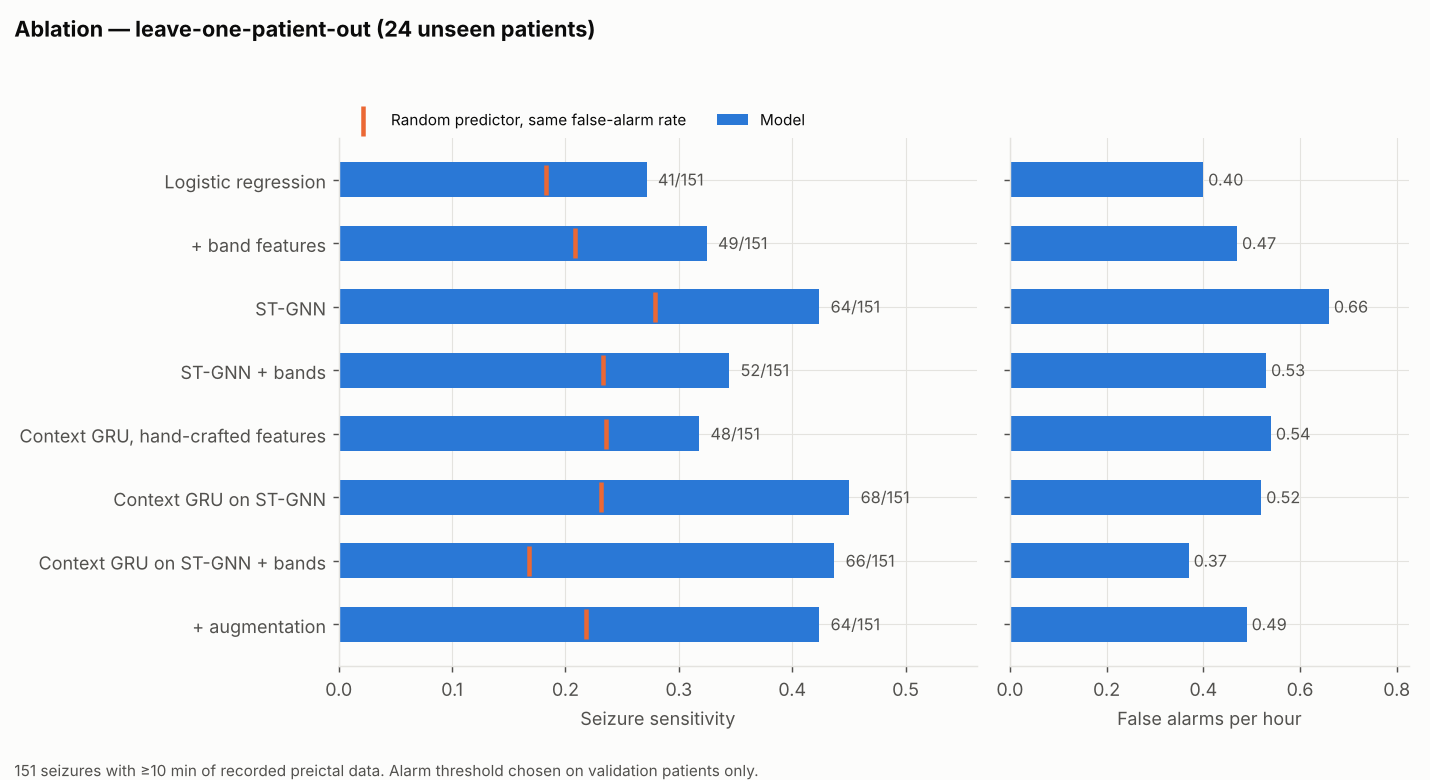
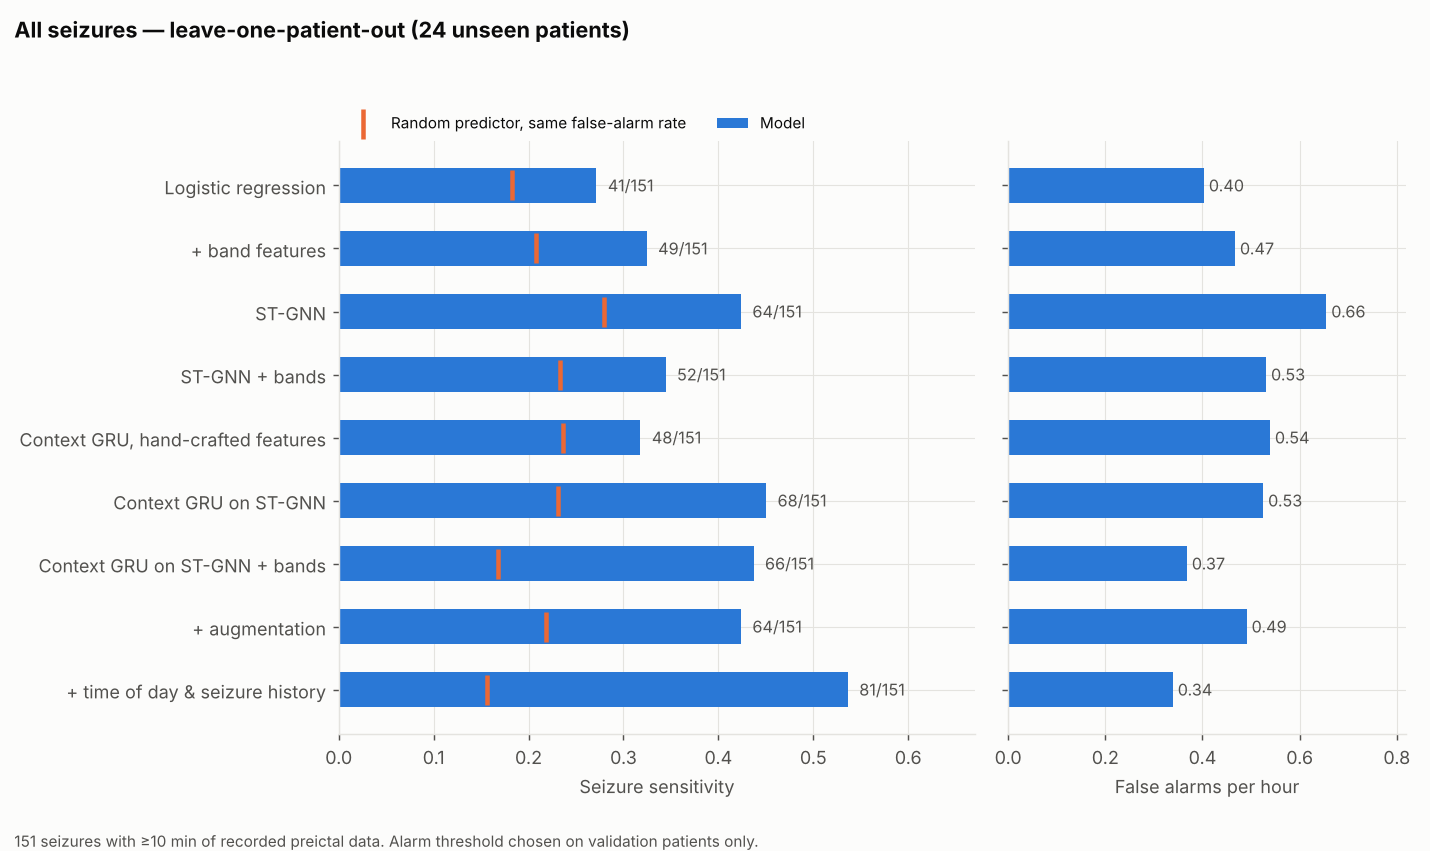
README: lead-seizure results and seizure-clustering findings
- Summary and ablation tables now report all seizures and lead seizures
  (onset >= 4 h after the previous seizure) side by side
- New ablation_lead.png figure; personalization and chronological tables
  gain lead-seizure columns
- Document time-of-day / seizure-history context features and the
  --lead_gap_h evaluation option

Claude-Session: https://claude.ai/code/session_01R4Q7ReF1wFLYanRSxHYykG

diff --git a/tools/readme_figures.py b/tools/readme_figures.py
@@ -37,7 +37,9 @@ ABLATION = [  # (label, run)
     ("Context GRU on ST-GNN", "context_stgnn_lopo"),
     ("Context GRU on ST-GNN + bands", BEST),
     ("  + augmentation", "context_stgnn_bands_aug_lopo"),
+    ("  + time of day & seizure history", "context_stgnn_bands_timehist_lopo"),
 ]
+ABLATION_LEAD = [(lab, f"{run}/lead4h") for lab, run in ABLATION]
 PERSONALIZATION = [
     ("Patient-specific, from scratch", "context_stgnn_bands_chrono"),
     ("General model, threshold calibrated", "personalized/general"),
@@ -53,7 +55,7 @@ def export(results_dir, out):
     from src.metrics import THRESHOLD_GRID, event_metrics, raise_alarms, summarize_events
 
     runs = {}
-    for _, run in ABLATION + PERSONALIZATION:
+    for _, run in ABLATION + ABLATION_LEAD + PERSONALIZATION:
         p = os.path.join(results_dir, run, "results.json")
         if os.path.exists(p):
             runs[run] = json.load(open(p))["summary"]
@@ -142,7 +144,8 @@ def render(data_path, out_dir):
         a1.scatter(rnd, y, marker="|", s=260, linewidths=2.5, color=ORANGE, zorder=3,
                    label="Random predictor, same false-alarm rate")
         for yi, (_, s) in zip(y, rows):
-            a1.text(s["sensitivity"] + 0.01, yi, f"{s['predicted']}/{s['seizures']}", va="center",
+            a1.text(max(s["sensitivity"], s["random_predictor_sensitivity"]) + 0.012, yi,
+                    f"{s['predicted']}/{s['seizures']}", va="center",
                     fontsize=9, color=TEXT_2)
         a1.set_xlim(0, max(sens) * 1.25)
         a1.set_xlabel("Seizure sensitivity")
@@ -161,8 +164,12 @@ def render(data_path, out_dir):
         fig.savefig(os.path.join(out_dir, fname), dpi=130)
         plt.close(fig)
 
-    two_panel(ABLATION, "Ablation — leave-one-patient-out (24 unseen patients)", "ablation_lopo.png",
+    two_panel(ABLATION, "All seizures — leave-one-patient-out (24 unseen patients)", "ablation_lopo.png",
               "151 seizures with ≥10 min of recorded preictal data. Alarm threshold chosen on validation patients only.")
+    two_panel(ABLATION_LEAD, "Lead seizures only — leave-one-patient-out (24 unseen patients)",
+              "ablation_lead.png",
+              "65 seizures starting ≥4 h after the previous one; clustered seizures not scored. "
+              "Threshold chosen on validation patients' lead seizures.")
     two_panel(PERSONALIZATION, "Personalization — last 30% of each patient's recording (13 patients)",
               "personalization.png",
               "31 test seizures; all variants use the same test data and choose the threshold on the patient's validation part.")

diff --git a/README.md b/README.md
@@ -21,18 +21,24 @@ channels and whose edges are Phase Locking Values (PLV) in several frequency ban
 attention network embeds each window; a recurrent model reads the last 5 minutes of
 embeddings and outputs a **continuous risk score** that rises toward onset.
 
-**Result (24 patients, each tested without ever being seen in training, 151 seizures):**
+**Result (24 patients, each tested by a model that never saw them):**
 
-| | Best model |
-|---|---|
-| Seizures predicted | **66 / 151 (44%)** |
-| False alarms | **0.37 per hour** (about one every 2.7 hours) |
-| Mean warning time | **19.4 minutes** before onset |
-| Random predictor at the same false-alarm rate | 17% of seizures |
-| Significance vs. chance | p = 9 × 10⁻¹⁵ |
+| Best model | All seizures | Lead seizures only |
+|---|---|---|
+| Seizures predicted | **66 / 151 (44%)** | **21 / 65 (32%)** |
+| False alarms per hour | 0.37 | 0.33 (about one every 3 hours) |
+| Mean warning time | 19.4 min | 20.7 min |
+| Random predictor at the same false-alarm rate | 17% | 15% |
+| p vs. chance | 9 × 10⁻¹⁵ | 4 × 10⁻⁴ |
 
-Fine-tuning that general model on a patient's own early recordings improves it further
-for that patient (Section 7.3).
+**Lead seizures** (starting ≥ 4 h after the previous one) are the stricter test. Many
+CHB-MIT seizures come in clusters, and a model can catch those by learning "another
+seizure is likely soon" rather than by recognising pre-seizure EEG. On lead seizures,
+only the models that combine ST-GNN embeddings with minutes of context stay clearly
+better than chance. Adding the time since the last seizure raises all-seizure
+sensitivity to 54% (a useful seizure-cluster warning) but does not help on lead
+seizures (Section 7.1). Personalization results are promising but too small to be
+conclusive (Section 7.3).
 
 **How this version came about.** v2 reported a window-level AUC of 0.883 using a random
 split that leaked information between training and test data. v3 rebuilds everything, from
@@ -139,6 +145,10 @@ on validation data only, maximising seizure sensitivity subject to ≤ 0.5 false
   with probability p = 1 − exp(−FPR × SOP) (Schelter et al., 2006); a binomial test gives
   the p-value of the model's sensitivity against it.
 - Seizures with < 10 min of recorded preictal data are not scored (26 in leave-one-patient-out).
+- **Lead seizures:** every result is also reported for lead seizures only, those starting
+  ≥ 4 h after the end of the previous seizure (65 of the 177 test seizures with enough
+  preictal data in leave-one-patient-out). Clustered seizures then count neither as hits nor
+  misses, also when the threshold is chosen on validation data.
 - Window-level ROC-AUC per subject is reported for comparison with other work.
 
 ---
@@ -150,7 +160,7 @@ on validation data only, maximising seizure sensitivity subject to ≤ 0.5 false
 pip install torch --index-url https://download.pytorch.org/whl/cu128
 pip install -r requirements.txt
 
-python -m pytest tests                    # 36 tests, CPU, < 1 min, no dataset needed
+python -m pytest tests                    # 42 tests, CPU, < 1 min, no dataset needed
 bash run_all.sh /path/to/chb-mit          # every result in this README, end to end
 jupyter notebook notebooks/stgnn_v3_walkthrough.ipynb   # or step through it cell by cell
 ```
@@ -163,7 +173,13 @@ python -m src.preprocess --raw_dir /path/to/chb-mit --out_dir $P --workers 4
 python -m src.train   --processed_dir $P --protocol lopo --features bands --out_dir results/stgnn_bands_lopo
 python -m src.context --processed_dir $P --source results/stgnn_bands_lopo --out_dir results/context_stgnn_bands_lopo
 python -m src.evaluate --results_dir results/context_stgnn_bands_lopo
+python -m src.evaluate --results_dir results/context_stgnn_bands_lopo \
+    --lead_gap_h 4 --processed_dir $P --out_dir results/context_stgnn_bands_lopo/lead4h
 python -m src.figures  --results_dir results/context_stgnn_bands_lopo
+
+# context model with hour of day and time since the last seizure
+python -m src.context --processed_dir $P --source results/stgnn_bands_lopo --extra time,history \
+    --out_dir results/context_stgnn_bands_timehist_lopo
 
 # personalization (uses the leave-one-patient-out models above)
 python -m src.personalize --processed_dir $P --general_encoder results/stgnn_bands_lopo \
@@ -181,6 +197,7 @@ data/synthetic` builds small synthetic EDF files with CHB-MIT's quirks.
 |---|---|
 | Window encoder | Adam, lr 3e-4, weight decay 1e-4, cosine schedule; 30 epochs × 40,000 class-balanced windows; early stopping (patience 8) on validation AUC; batch 128; dropout 0.4; BF16 on CUDA |
 | Context model | GRU, hidden 64, 60-window (5-min) history; Adam, lr 1e-3; early stopping (patience 6) |
+| Context extras (optional) | hour of day (sin, cos); log time since the last seizure ended, clipped to [1 h, 72 h]; has-previous-seizure flag |
 | Personalization | encoder lr 1e-4 (≤ 10 epochs), context lr 3e-4 (≤ 15 epochs), early stopping on the patient's validation part |
 | Loss | α = 0.5 MSE / BCE |
 
@@ -189,57 +206,79 @@ data/synthetic` builds small synthetic EDF files with CHB-MIT's quirks.
 ## 7. Results
 
 All numbers are on held-out data, produced by `src.evaluate`. Every run uses the same alarm
-rule and chooses its threshold on validation data only.
+rule and chooses its threshold on validation data only. Each model is scored on **all
+seizures** and on **lead seizures only** (Section 4).
 
 ### 7.1 Ablation: what each component contributes (leave-one-patient-out)
 
-24 patients, each tested by a model that never saw them; 151 scored seizures, 766 interictal hours.
+24 patients, each tested by a model that never saw them; 766 interictal hours.
 
-| Model | Seizures predicted | False alarms / h | Random predictor | p vs. chance | Mean lead time | Window AUC |
-|---|---|---|---|---|---|---|
-| Logistic regression (PLV + power) | 41 (27%) | 0.40 | 18% | 0.005 | 17.9 min | 0.53 ± 0.09 |
-| Logistic regression + band features | 49 (32%) | 0.47 | 21% | 6 × 10⁻⁴ | 16.7 min | 0.53 ± 0.10 |
-| ST-GNN (5-s windows) | 64 (42%) | 0.66 | 28% | 1 × 10⁻⁴ | 14.6 min | 0.52 ± 0.13 |
-| ST-GNN + band features | 52 (34%) | 0.53 | 23% | 0.001 | 16.9 min | 0.52 ± 0.13 |
-| Context GRU on hand-crafted features | 48 (32%) | 0.54 | 24% | 0.014 | 18.7 min | 0.57 ± 0.15 |
-| Context GRU on ST-GNN | 68 (45%) | 0.52 | 23% | 2 × 10⁻⁹ | 18.3 min | 0.56 ± 0.16 |
-| **Context GRU on ST-GNN + bands** | **66 (44%)** | **0.37** | **17%** | **9 × 10⁻¹⁵** | **19.4 min** | 0.56 ± 0.15 |
-| … + training-time augmentation | 64 (42%) | 0.49 | 22% | 1 × 10⁻⁸ | 17.7 min | 0.54 ± 0.15 |
+| Model | All seizures (151): predicted | FA/h | p | Lead seizures (65): predicted | FA/h | chance | p |
+|---|---|---|---|---|---|---|---|
+| Logistic regression (PLV + power) | 41 (27%) | 0.40 | 0.005 | 7 (11%) | 0.25 | 12% | 0.64 |
+| Logistic regression + band features | 49 (32%) | 0.47 | 6 × 10⁻⁴ | 16 (25%) | 0.40 | 18% | 0.12 |
+| ST-GNN (5-s windows) | 64 (42%) | 0.66 | 1 × 10⁻⁴ | 17 (26%) | 0.56 | 24% | 0.41 |
+| ST-GNN + band features | 52 (34%) | 0.53 | 0.001 | 16 (25%) | 0.40 | 18% | 0.12 |
+| ST-GNN + bands + augmentation | 49 (32%) | 0.62 | 0.06 | 22 (34%) | 0.46 | 21% | 0.008 |
+| Context GRU on hand-crafted features | 48 (32%) | 0.54 | 0.014 | 18 (28%) | 0.41 | 19% | 0.046 |
+| Context GRU on ST-GNN | 68 (45%) | 0.52 | 2 × 10⁻⁹ | **26 (40%)** | 0.48 | 21% | 4 × 10⁻⁴ |
+| **Context GRU on ST-GNN + bands** | **66 (44%)** | **0.37** | **9 × 10⁻¹⁵** | **21 (32%)** | **0.33** | **15%** | **4 × 10⁻⁴** |
+| … + augmentation | 64 (42%) | 0.49 | 1 × 10⁻⁸ | 16 (25%) | 0.40 | 18% | 0.13 |
+| … + time of day | 49 (32%) | 0.40 | 2 × 10⁻⁵ | 14 (22%) | 0.36 | 17% | 0.18 |
+| … + seizure history | **88 (58%)** | 0.44 | 5 × 10⁻²⁵ | 16 (25%) | 0.37 | 17% | 0.07 |
+| … + time of day & seizure history | 81 (54%) | **0.34** | 5 × 10⁻²⁷ | 21 (32%) | 0.32 | 15% | 2 × 10⁻⁴ |
 
-![Ablation](docs/figures/ablation_lopo.png)
+![Ablation, all seizures](docs/figures/ablation_lopo.png)
+
+![Ablation, lead seizures](docs/figures/ablation_lead.png)
 
 **What this shows**
 
-- **Minutes of context is the most valuable component for the graph network.** Adding the
-  5-minute GRU improved both ST-GNN variants on both axes at once (more seizures, fewer
-  false alarms), mainly by suppressing isolated false alarms. On hand-crafted features it
-  did not beat plain logistic regression (48 vs 49 seizures, 0.54 vs 0.47 false alarms/h).
-- **Band features help only with context.** Alone they made the ST-GNN worse (64 → 52
-  seizures): a single 5-s window with 306 six-feature edges is noisy. Over 5 minutes, the
-  richer features pay off: the best model has the lowest false-alarm rate of all.
-- **The graph network adds something hand-crafted features don't.** With the same context
-  model, ST-GNN embeddings predict 66–68 seizures; hand-crafted band features predict 48.
-- **Augmentation hurt** (time shift, noise, masking, channel gain, channel dropout, PLV
-  jitter): fewer seizures, more false alarms. The main difficulty is variability *between*
-  patients, which within-patient perturbations don't simulate, and noise blurs an already
-  subtle signal.
-- **Window AUC stays near 0.55** although alarms are far better than chance: most windows
-  are hard to tell apart, but the model's high-confidence episodes cluster before seizures.
-  Event-level metrics are what matter for a warning system.
+- **Lead seizures are much harder.** Only 65 of 177 test seizures are lead seizures; the
+  rest follow another seizure within 4 hours, mostly in a few patients (chb12, chb24).
+  On lead seizures, logistic regression and the window-level ST-GNN no longer beat chance.
+- **ST-GNN embeddings plus minutes of context is the result that survives.** Both context
+  models on ST-GNN embeddings stay clearly better than chance on lead seizures
+  (p < 0.001); the same context model on hand-crafted features is borderline (p = 0.046).
+  The 5-minute context also improved both ST-GNN variants on all seizures, mainly by
+  suppressing isolated false alarms.
+- **Band features shift the operating point rather than adding signal.** With context they
+  give the lowest false-alarm rates (0.33–0.37/h) but catch fewer lead seizures (21 vs 26);
+  the margin over chance is similar.
+- **Seizure history predicts clusters, not seizures.** Adding the time since the last
+  seizure lifts all-seizure sensitivity from 44% to 58%, yet gives nothing on lead seizures.
+  The model learns that seizures come in clusters. That is clinically useful as a cluster
+  warning, but it is not pre-seizure EEG prediction. (The feature is floored at the 60-min
+  labelling buffer so it cannot exploit the labelling rule itself; see `src/context_features.py`.)
+- **Time of day does not transfer between patients.** Each patient's daily seizure pattern
+  differs, so one learned from others adds noise. Combined with seizure history it gives the
+  best all-seizure model (54% at 0.34 false alarms/h), equal to the best on lead seizures.
+- **Augmentation did not help** (time shift, noise, masking, channel gain, channel dropout,
+  PLV jitter). The window-level model with augmentation does reach p = 0.008 on lead
+  seizures, but its context version drops to chance; with 65 seizures, differences of a few
+  seizures are within noise. The main difficulty is variability *between* patients, which
+  within-patient perturbations do not simulate.
+- **Window AUC stays near 0.55** although alarms beat chance: most windows are hard to tell
+  apart, but high-confidence episodes cluster before seizures. Event-level metrics are what
+  matter for a warning system.
 
-![Sensitivity vs false alarms](docs/figures/operating_curve.png)
+![Sensitivity vs false alarms, all seizures](docs/figures/operating_curve.png)
 
 ### 7.2 Per patient: large differences
 
+Counted over all seizures. The best model works well for some patients and not at all for
+others.
+
 ![Per patient](docs/figures/per_subject.png)
 
-The best model works well for some patients and not at all for others. chb20 below: 6 of 8
-seizures predicted with 0.44 false alarms/h, by a model that never saw this patient.
+chb20, never seen in training: 6 of 8 seizures predicted (both lead seizures among them)
+with 0.44 false alarms/h.
 
 ![Risk timeline, chb20](docs/figures/risk_timeline_chb20.png)
 
-chb15: none of 15 seizures predicted. Its risk stays low before every seizure; whatever
-precedes this patient's seizures is not the pattern the other patients taught the model.
+chb15: none of 15 seizures predicted (7 of them lead seizures). Its risk stays low before
+every seizure; whatever precedes this patient's seizures is not the pattern the other
+patients taught the model.
 
 ![Risk timeline, chb15](docs/figures/risk_timeline_chb15.png)
 
@@ -247,42 +286,48 @@ precedes this patient's seizures is not the pattern the other patients taught th
 
 The 13 patients with ≥ 3 seizures. Each starts from the leave-one-patient-out model that
 never saw them, adapts on the first ~50% of their recording, and is tested on the last ~30%
-(31 seizures, 115 interictal hours).
+(115 interictal hours).
 
-| Variant | Seizures predicted | False alarms / h | Random predictor | p vs. chance | Window AUC |
-|---|---|---|---|---|---|
-| Patient-specific model trained from scratch | 7 | 0.14 | 7% | 0.004 | 0.60 |
-| General model, only the threshold calibrated | 6 | 0.15 | 7% | 0.02 | 0.59 |
-| General model + fine-tuned context GRU | 11 | 0.42 | 19% | 0.02 | 0.65 |
-| **General model + fine-tuned encoder and context** | **9** | **0.24** | **11%** | **0.005** | **0.62** |
+| Variant | All (31): predicted | FA/h | p | Lead (16): predicted | FA/h | p |
+|---|---|---|---|---|---|---|
+| Patient-specific model trained from scratch | 7 | 0.14 | 0.004 | 1 | 0.09 | 0.50 |
+| General model, only the threshold calibrated | 6 | 0.15 | 0.02 | 3 | 0.12 | 0.07 |
+| General model + fine-tuned context GRU | 11 | 0.42 | 0.02 | 5 | 0.31 | 0.06 |
+| General model + fine-tuned encoder and context | 9 | 0.24 | 0.005 | 2 | 0.17 | 0.39 |
 
 ![Personalization](docs/figures/personalization.png)
 
-- **Starting from the general model beats starting from nothing:** both fine-tuned variants
-  predict more seizures and separate preictal from normal EEG better than a patient-specific
-  model trained only on that patient's data.
-- **Fine-tuning everything is the most balanced option.** Fine-tuning only the context model
-  catches the most seizures, but with about three times the false-alarm rate of the
-  calibrated general model (0.42 vs 0.15 per hour).
-- It fixes patients the general model fails on: chb01 goes from 0/1 (window AUC 0.53) to 1/1 (0.74).
-- With 31 test seizures, differences of 2–4 seizures are suggestive rather than conclusive.
+- **On all seizures, starting from the general model beats starting from nothing:** both
+  fine-tuned variants predict more seizures and separate preictal from normal EEG better
+  (window AUC 0.62–0.65 vs 0.60) than a model trained only on the patient's own data.
+- It fixes some patients the general model fails on: chb01 goes from 0/1 (window AUC 0.53)
+  to 1/1 (0.74) after full fine-tuning.
+- **On lead seizures the comparison is inconclusive:** only 16 lead seizures fall in the
+  patient-specific test periods, and no variant is significantly better than chance. Part
+  of the all-seizure gain may come from clustered seizures. A larger patient-specific test
+  set (more patients or longer recordings) is needed to settle it.
 
 ### 7.4 Patient-specific models (chronological protocol)
 
 Same 13 patients and test data as 7.3, models trained only on each patient's own data.
 
-| Model | Seizures predicted | False alarms / h | p vs. chance |
-|---|---|---|---|
-| Logistic regression | 7 | 0.31 | 0.15 |
-| Logistic regression + bands | 8 | 0.17 | 0.003 |
-| ST-GNN | 6 | 0.16 | 0.03 |
-| ST-GNN + bands | 6 | 0.27 | 0.19 |
-| Context GRU, hand-crafted features | 9 | 0.21 | 0.002 |
-| Context GRU on ST-GNN | 7 | 0.17 | 0.01 |
-| Context GRU on ST-GNN + bands | 7 | 0.14 | 0.004 |
+| Model | All (31): predicted | FA/h | p | Lead (16): predicted | p |
+|---|---|---|---|---|---|
+| Logistic regression | 7 | 0.31 | 0.15 | 2 | 0.46 |
+| Logistic regression + bands | 8 | 0.17 | 0.003 | 2 | 0.34 |
+| ST-GNN | 6 | 0.16 | 0.03 | 0 | 1.0 |
+| ST-GNN + bands | 6 | 0.27 | 0.19 | 0 | 1.0 |
+| Context GRU, hand-crafted features | 9 | 0.21 | 0.002 | 4 | 0.05 |
+| Context GRU on ST-GNN | 7 | 0.17 | 0.01 | 1 | 0.57 |
+| Context GRU on ST-GNN + bands | 7 | 0.14 | 0.004 | 1 | 0.50 |
+| … + seizure history | 11 | 0.20 | 8 × 10⁻⁵ | 5 | 0.001 |
+| … + time of day & seizure history | 9 | 0.22 | 0.003 | 4 | 0.02 |
 
 With only the first half of one patient's recording (often 2–3 seizures) for training,
-all models are data-limited, which is why pretraining on other patients (7.3) helps.
+all models are data-limited. One suggestive exception: a patient's *own* seizure history
+helps even on lead seizures (5 of 16, p = 0.001), unlike the population-level history in
+7.1; individual seizure timing may carry information beyond clustering. Sixteen seizures
+are too few to claim it.
 
 ---
 
@@ -322,6 +367,7 @@ seizure-prediction-stgnn/
 │   ├── train.py             ← window-encoder training + predictions per fold
 │   ├── augment.py           ← training-time augmentation
 │   ├── context.py           ← 5-minute context GRU
+│   ├── context_features.py  ← hour of day, time since last seizure (leak-guarded)
 │   ├── personalize.py       ← fine-tune the general model per patient
 │   ├── baseline.py          ← logistic-regression baseline
 │   ├── metrics.py           ← alarms, seizure-level metrics, threshold selection
@@ -330,7 +376,7 @@ seizure-prediction-stgnn/
 │   └── config.py
 ├── tools/readme_figures.py  ← README figures (export from results/, render anywhere)
 ├── docs/figures/            ← README figures and the data they are drawn from
-├── tests/                   ← 36 tests: preprocessing, splits, metrics, augmentation, end to end
+├── tests/                   ← 42 tests: preprocessing, splits, metrics, augmentation, features, end to end
 ├── notebooks/
 │   └── stgnn_v3_walkthrough.ipynb  ← every pipeline step, cell by cell
 └── legacy/                  ← v2 notebooks and checkpoint (leaky evaluation)
@@ -340,7 +386,7 @@ seizure-prediction-stgnn/
 
 ## 10. Limitations
 
-- **Model selection used the same test patients.** Eight variants were compared on the
+- **Model selection used the same test patients.** Twelve variants were compared on the
   leave-one-patient-out results, and the best is reported. Each run's threshold and epoch
   are chosen on validation data, but picking the best *variant* this way is mildly
   optimistic; a fresh dataset (e.g. the Siena Scalp EEG Database) is the proper next test.
@@ -354,6 +400,8 @@ seizure-prediction-stgnn/
 - **Single dataset:** pediatric scalp EEG from one hospital; adults and other recording
   setups are untested.
 - **Offline evaluation:** the pipeline is causal, but it has not been run as a live stream.
+- **Few lead seizures:** 65 in leave-one-patient-out and 16 in the patient-specific test
+  periods; differences of a few seizures are within noise.
 - **Small patient-specific test set:** 31 seizures in Sections 7.3–7.4.
 - **Fixed SOP of 30 minutes;** the best horizon may differ between patients.
 
